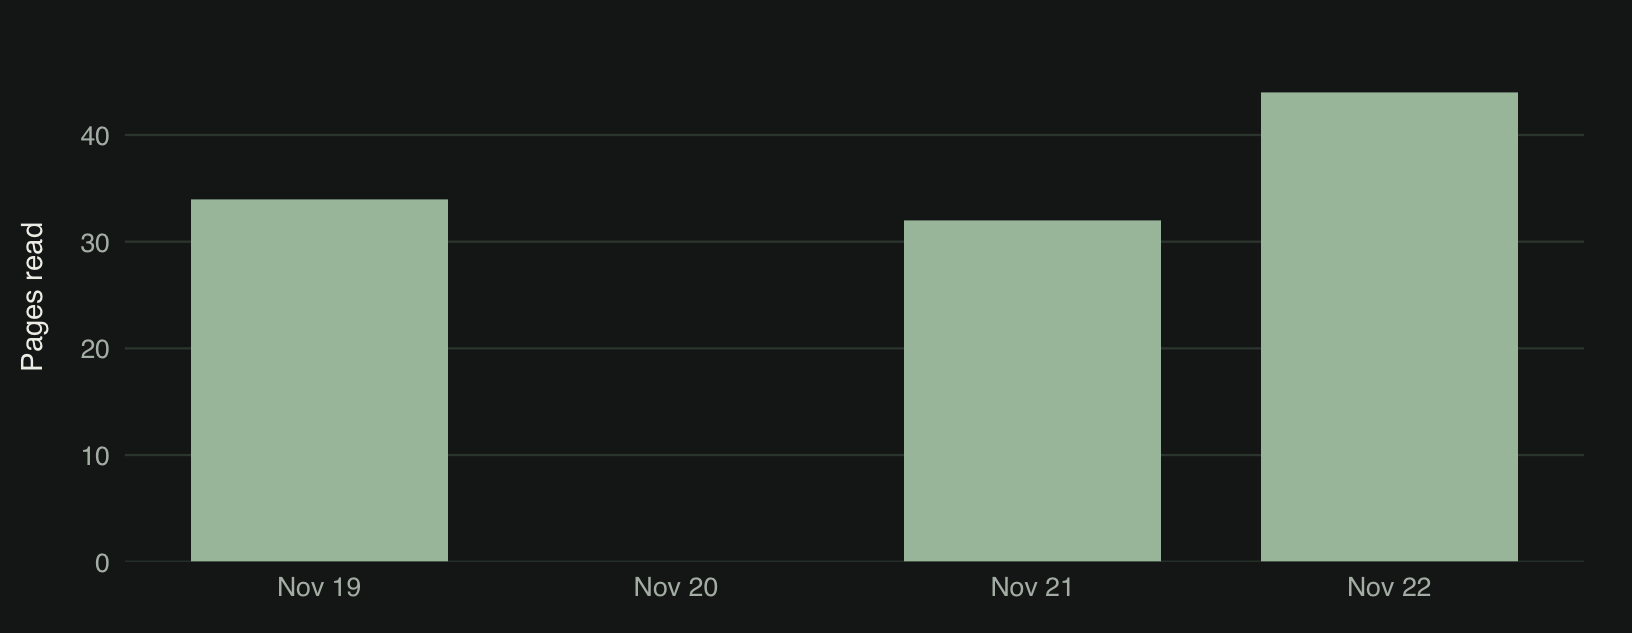
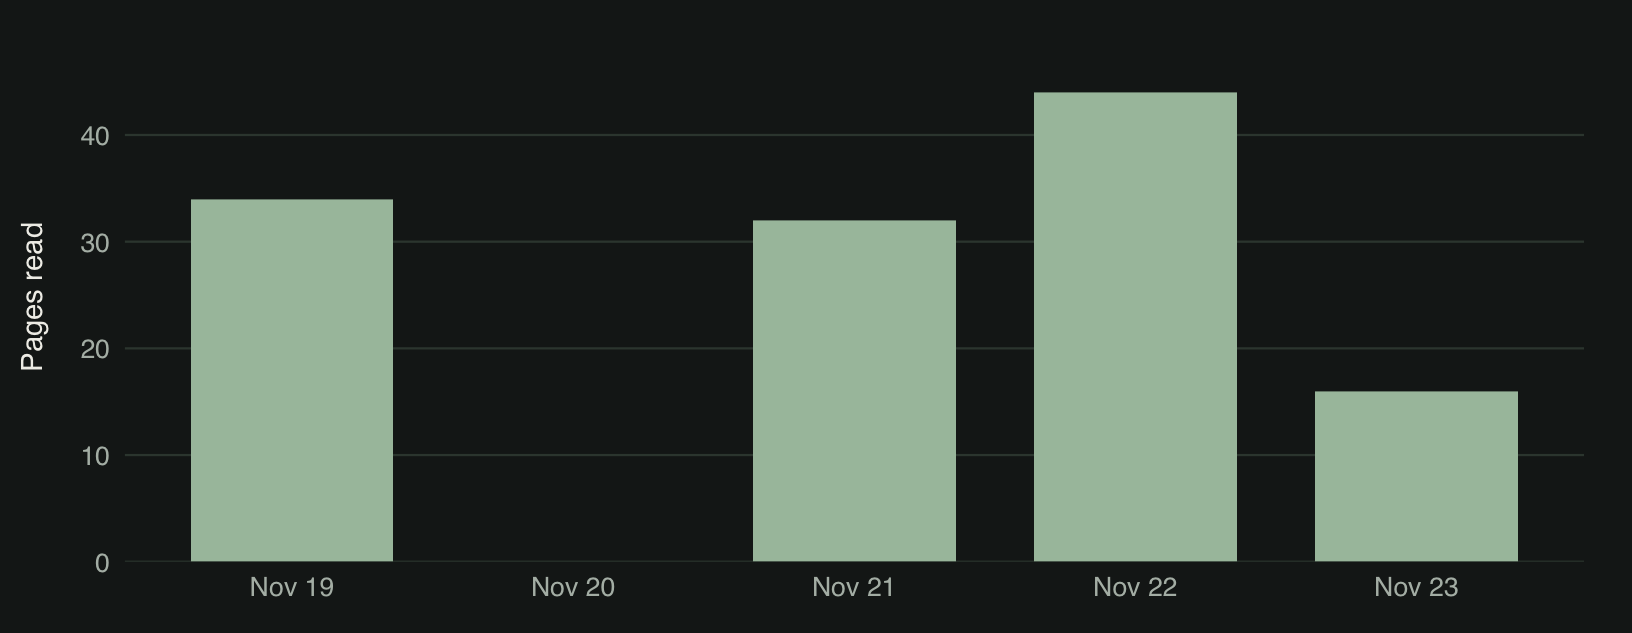
Built site for gh-pages

diff --git a/library.html b/library.html
@@ -339,8 +339,8 @@ ul.task-list li input[type="checkbox"] {
 <div class="library-page">
 <div class="cell">
 <div class="cell-output-display">
-<div class="datatables html-widget html-fill-item" id="htmlwidget-fa1062c17ee3f617b449" style="width:100%;height:auto;"></div>
-<script type="application/json" data-for="htmlwidget-fa1062c17ee3f617b449">{"x":{"filter":"none","vertical":false,"data":[["<a href=\"books/lavalee-des-avales.html\" class=\"library-book-link\">\n  <img src=\"https://covers.openlibrary.org/b/id/967591-M.jpg\" alt=\"Cover of L&#39;avalée des avalés\" class=\"library-cover\" loading=\"lazy\"/>\n  <span class=\"library-book-title\">L'avalée des avalés<\/span>\n<\/a>","<a href=\"books/volkswagen-blues.html\" class=\"library-book-link\">\n  <img src=\"https://covers.openlibrary.org/b/id/10820587-M.jpg\" alt=\"Cover of Volkswagen Blues\" class=\"library-cover\" loading=\"lazy\"/>\n  <span class=\"library-book-title\">Volkswagen Blues<\/span>\n<\/a>","<a href=\"books/B004.html\" class=\"library-book-link\">\n  <img src=\"https://covers.openlibrary.org/b/id/452472-M.jpg\" alt=\"Cover of The Argumentative Indian: Writings on Indian History, Culture and Identity\" class=\"library-cover\" loading=\"lazy\"/>\n  <span class=\"library-book-title\">The Argumentative Indian: Writings on Indian History, Culture and Identity<\/span>\n<\/a>","<a href=\"books/B003.html\" class=\"library-book-link\">\n  <img src=\"https://covers.openlibrary.org/b/id/6601656-M.jpg\" alt=\"Cover of Silence\" class=\"library-cover\" loading=\"lazy\"/>\n  <span class=\"library-book-title\">Silence<\/span>\n<\/a>"],["Réjean Ducharme","Jacques Poulin","Amartya Sen","Shūsaku Endō"],[343,221,432,256],["<span class=\"library-status library-status--reading\">Reading<\/span>","<span class=\"library-status library-status--finished\">Finished<\/span>","<span class=\"library-status library-status--finished\">Finished<\/span>","<span class=\"library-status library-status--finished\">Finished<\/span>"],["2026-11-19","2026-10-30","2026-09-26","2026-09-12"],["—","2026-11-18","2026-10-28","2026-09-25"]],"container":"<table class=\"hover\">\n  <thead>\n    <tr>\n      <th>Book<\/th>\n      <th>Author<\/th>\n      <th>Pages<\/th>\n      <th>Status<\/th>\n      <th>Date Started<\/th>\n      <th>Date Finished<\/th>\n    <\/tr>\n  <\/thead>\n<\/table>","options":{"pageLength":10,"lengthChange":true,"lengthMenu":[[10,15,25,50,100,-1],["10","15","25","50","100","All"]],"order":[],"autoWidth":false,"scrollX":true,"language":{"search":"Search books:","emptyTable":"No books recorded yet."},"columnDefs":[{"className":"dt-right","targets":2},{"name":"Book","targets":0},{"name":"Author","targets":1},{"name":"Pages","targets":2},{"name":"Status","targets":3},{"name":"Date Started","targets":4},{"name":"Date Finished","targets":5}],"orderClasses":false}},"evals":[],"jsHooks":[]}</script>
+<div class="datatables html-widget html-fill-item" id="htmlwidget-13a73a09ba4db7b51588" style="width:100%;height:auto;"></div>
+<script type="application/json" data-for="htmlwidget-13a73a09ba4db7b51588">{"x":{"filter":"none","vertical":false,"data":[["<a href=\"books/lavalee-des-avales.html\" class=\"library-book-link\">\n  <img src=\"https://covers.openlibrary.org/b/id/967591-M.jpg\" alt=\"Cover of L&#39;avalée des avalés\" class=\"library-cover\" loading=\"lazy\"/>\n  <span class=\"library-book-title\">L'avalée des avalés<\/span>\n<\/a>","<a href=\"books/volkswagen-blues.html\" class=\"library-book-link\">\n  <img src=\"https://covers.openlibrary.org/b/id/10820587-M.jpg\" alt=\"Cover of Volkswagen Blues\" class=\"library-cover\" loading=\"lazy\"/>\n  <span class=\"library-book-title\">Volkswagen Blues<\/span>\n<\/a>","<a href=\"books/B004.html\" class=\"library-book-link\">\n  <img src=\"https://covers.openlibrary.org/b/id/452472-M.jpg\" alt=\"Cover of The Argumentative Indian: Writings on Indian History, Culture and Identity\" class=\"library-cover\" loading=\"lazy\"/>\n  <span class=\"library-book-title\">The Argumentative Indian: Writings on Indian History, Culture and Identity<\/span>\n<\/a>","<a href=\"books/B003.html\" class=\"library-book-link\">\n  <img src=\"https://covers.openlibrary.org/b/id/6601656-M.jpg\" alt=\"Cover of Silence\" class=\"library-cover\" loading=\"lazy\"/>\n  <span class=\"library-book-title\">Silence<\/span>\n<\/a>"],["Réjean Ducharme","Jacques Poulin","Amartya Sen","Shūsaku Endō"],[343,221,432,256],["<span class=\"library-status library-status--reading\">Reading<\/span>","<span class=\"library-status library-status--finished\">Finished<\/span>","<span class=\"library-status library-status--finished\">Finished<\/span>","<span class=\"library-status library-status--finished\">Finished<\/span>"],["2026-11-19","2026-10-30","2026-09-26","2026-09-12"],["—","2026-11-18","2026-10-28","2026-09-25"]],"container":"<table class=\"hover\">\n  <thead>\n    <tr>\n      <th>Book<\/th>\n      <th>Author<\/th>\n      <th>Pages<\/th>\n      <th>Status<\/th>\n      <th>Date Started<\/th>\n      <th>Date Finished<\/th>\n    <\/tr>\n  <\/thead>\n<\/table>","options":{"pageLength":10,"lengthChange":true,"lengthMenu":[[10,15,25,50,100,-1],["10","15","25","50","100","All"]],"order":[],"autoWidth":false,"scrollX":true,"language":{"search":"Search books:","emptyTable":"No books recorded yet."},"columnDefs":[{"className":"dt-right","targets":2},{"name":"Book","targets":0},{"name":"Author","targets":1},{"name":"Pages","targets":2},{"name":"Status","targets":3},{"name":"Date Started","targets":4},{"name":"Date Finished","targets":5}],"orderClasses":false}},"evals":[],"jsHooks":[]}</script>
 </div>
 </div>
 </div>
@@ -351,8 +351,8 @@ ul.task-list li input[type="checkbox"] {
 <div class="library-page">
 <div class="cell">
 <div class="cell-output-display">
-<div class="datatables html-widget html-fill-item" id="htmlwidget-c52c94c009923d69f34b" style="width:100%;height:auto;"></div>
-<script type="application/json" data-for="htmlwidget-c52c94c009923d69f34b">{"x":{"filter":"none","vertical":false,"data":[["<div class=\"library-book-link\">\n  <img src=\"images/9780374608422.jpg.avif\" alt=\"Cover of Annihilation\" class=\"library-cover\" loading=\"lazy\"/>\n  <span class=\"library-book-title\">Annihilation<\/span>\n<\/div>","<div class=\"library-book-link\">\n  <img src=\"https://covers.openlibrary.org/b/id/5722548-M.jpg\" alt=\"Cover of Brooklyn\" class=\"library-cover\" loading=\"lazy\"/>\n  <span class=\"library-book-title\">Brooklyn<\/span>\n<\/div>","<div class=\"library-book-link\">\n  <img src=\"https://covers.openlibrary.org/b/id/12661723-M.jpg\" alt=\"Cover of Cry, the Beloved Country\" class=\"library-cover\" loading=\"lazy\"/>\n  <span class=\"library-book-title\">Cry, the Beloved Country<\/span>\n<\/div>","<div class=\"library-book-link\">\n  <img src=\"https://covers.openlibrary.org/b/id/10096955-M.jpg\" alt=\"Cover of The Cold Millions\" class=\"library-cover\" loading=\"lazy\"/>\n  <span class=\"library-book-title\">The Cold Millions<\/span>\n<\/div>","<div class=\"library-book-link\">\n  <img src=\"https://covers.openlibrary.org/b/id/156399-M.jpg\" alt=\"Cover of The Gay Place\" class=\"library-cover\" loading=\"lazy\"/>\n  <span class=\"library-book-title\">The Gay Place<\/span>\n<\/div>","<div class=\"library-book-link\">\n  <img src=\"https://covers.openlibrary.org/b/id/7401807-M.jpg\" alt=\"Cover of The Sailor Who Fell from Grace with the Sea\" class=\"library-cover\" loading=\"lazy\"/>\n  <span class=\"library-book-title\">The Sailor Who Fell from Grace with the Sea<\/span>\n<\/div>","<div class=\"library-book-link\">\n  <img src=\"https://covers.openlibrary.org/b/id/914747-M.jpg\" alt=\"Cover of What We Talk About When We Talk About Love\" class=\"library-cover\" loading=\"lazy\"/>\n  <span class=\"library-book-title\">What We Talk About When We Talk About Love<\/span>\n<\/div>"],["Michel Houellebecq","Colm Tóibín","Alan Paton","Jess Walter","Billy Lee Brammer","Yukio Mishima","Raymond Carver"]],"container":"<table class=\"hover\">\n  <thead>\n    <tr>\n      <th>Book<\/th>\n      <th>Author<\/th>\n    <\/tr>\n  <\/thead>\n<\/table>","options":{"pageLength":10,"lengthChange":true,"lengthMenu":[[10,15,25,50,100,-1],["10","15","25","50","100","All"]],"order":[],"autoWidth":false,"scrollX":true,"language":{"search":"Search wishlist:","emptyTable":"No books on the wishlist yet."},"columnDefs":[{"name":"Book","targets":0},{"name":"Author","targets":1}],"orderClasses":false}},"evals":[],"jsHooks":[]}</script>
+<div class="datatables html-widget html-fill-item" id="htmlwidget-975d10de20ecba5fa627" style="width:100%;height:auto;"></div>
+<script type="application/json" data-for="htmlwidget-975d10de20ecba5fa627">{"x":{"filter":"none","vertical":false,"data":[["<div class=\"library-book-link\">\n  <img src=\"images/9780374608422.jpg.avif\" alt=\"Cover of Annihilation\" class=\"library-cover\" loading=\"lazy\"/>\n  <span class=\"library-book-title\">Annihilation<\/span>\n<\/div>","<div class=\"library-book-link\">\n  <img src=\"https://covers.openlibrary.org/b/id/5722548-M.jpg\" alt=\"Cover of Brooklyn\" class=\"library-cover\" loading=\"lazy\"/>\n  <span class=\"library-book-title\">Brooklyn<\/span>\n<\/div>","<div class=\"library-book-link\">\n  <img src=\"https://covers.openlibrary.org/b/id/12661723-M.jpg\" alt=\"Cover of Cry, the Beloved Country\" class=\"library-cover\" loading=\"lazy\"/>\n  <span class=\"library-book-title\">Cry, the Beloved Country<\/span>\n<\/div>","<div class=\"library-book-link\">\n  <img src=\"https://covers.openlibrary.org/b/id/10096955-M.jpg\" alt=\"Cover of The Cold Millions\" class=\"library-cover\" loading=\"lazy\"/>\n  <span class=\"library-book-title\">The Cold Millions<\/span>\n<\/div>","<div class=\"library-book-link\">\n  <img src=\"https://covers.openlibrary.org/b/id/156399-M.jpg\" alt=\"Cover of The Gay Place\" class=\"library-cover\" loading=\"lazy\"/>\n  <span class=\"library-book-title\">The Gay Place<\/span>\n<\/div>","<div class=\"library-book-link\">\n  <img src=\"https://covers.openlibrary.org/b/id/7401807-M.jpg\" alt=\"Cover of The Sailor Who Fell from Grace with the Sea\" class=\"library-cover\" loading=\"lazy\"/>\n  <span class=\"library-book-title\">The Sailor Who Fell from Grace with the Sea<\/span>\n<\/div>","<div class=\"library-book-link\">\n  <img src=\"https://covers.openlibrary.org/b/id/914747-M.jpg\" alt=\"Cover of What We Talk About When We Talk About Love\" class=\"library-cover\" loading=\"lazy\"/>\n  <span class=\"library-book-title\">What We Talk About When We Talk About Love<\/span>\n<\/div>"],["Michel Houellebecq","Colm Tóibín","Alan Paton","Jess Walter","Billy Lee Brammer","Yukio Mishima","Raymond Carver"]],"container":"<table class=\"hover\">\n  <thead>\n    <tr>\n      <th>Book<\/th>\n      <th>Author<\/th>\n    <\/tr>\n  <\/thead>\n<\/table>","options":{"pageLength":10,"lengthChange":true,"lengthMenu":[[10,15,25,50,100,-1],["10","15","25","50","100","All"]],"order":[],"autoWidth":false,"scrollX":true,"language":{"search":"Search wishlist:","emptyTable":"No books on the wishlist yet."},"columnDefs":[{"name":"Book","targets":0},{"name":"Author","targets":1}],"orderClasses":false}},"evals":[],"jsHooks":[]}</script>
 </div>
 </div>
 </div>

diff --git a/pages.html b/pages.html
@@ -338,8 +338,8 @@ ul.task-list li input[type="checkbox"] {
 <div class="reading-log-page">
 <div class="cell">
 <div class="cell-output-display">
-<div class="datatables html-widget html-fill-item" id="htmlwidget-f14a2a12c35724aca9db" style="width:100%;height:auto;"></div>
-<script type="application/json" data-for="htmlwidget-f14a2a12c35724aca9db">{"x":{"filter":"none","vertical":false,"data":[["2026-11-22","2026-11-21","2026-11-20","2026-11-19"],["<a href=\"books/lavalee-des-avales.html\" class=\"log-book-link\">L'avalée des avalés<\/a>","<a href=\"books/lavalee-des-avales.html\" class=\"log-book-link\">L'avalée des avalés<\/a>","<span class=\"log-unrecorded\">No entry recorded<\/span>","<a href=\"books/lavalee-des-avales.html\" class=\"log-book-link\">L'avalée des avalés<\/a>"],[44,32,null,34],[110,66,null,34]],"container":"<table class=\"hover\">\n  <thead>\n    <tr>\n      <th>Date<\/th>\n      <th>Book<\/th>\n      <th>Pages Read<\/th>\n      <th>Page Reached<\/th>\n    <\/tr>\n  <\/thead>\n<\/table>","options":{"pageLength":15,"lengthChange":true,"lengthMenu":[[10,15,25,50,100,-1],["10","15","25","50","100","All"]],"searching":true,"ordering":true,"order":[[0,"desc"]],"autoWidth":false,"scrollX":true,"language":{"search":"Search log:","emptyTable":"No reading entries yet."},"columnDefs":[{"className":"dt-right","targets":[2,3]},{"name":"Date","targets":0},{"name":"Book","targets":1},{"name":"Pages Read","targets":2},{"name":"Page Reached","targets":3}],"orderClasses":false}},"evals":[],"jsHooks":[]}</script>
+<div class="datatables html-widget html-fill-item" id="htmlwidget-a957526cca5b6c84e38e" style="width:100%;height:auto;"></div>
+<script type="application/json" data-for="htmlwidget-a957526cca5b6c84e38e">{"x":{"filter":"none","vertical":false,"data":[["2026-11-23","2026-11-22","2026-11-21","2026-11-20","2026-11-19"],["<a href=\"books/lavalee-des-avales.html\" class=\"log-book-link\">L'avalée des avalés<\/a>","<a href=\"books/lavalee-des-avales.html\" class=\"log-book-link\">L'avalée des avalés<\/a>","<a href=\"books/lavalee-des-avales.html\" class=\"log-book-link\">L'avalée des avalés<\/a>","<span class=\"log-unrecorded\">No entry recorded<\/span>","<a href=\"books/lavalee-des-avales.html\" class=\"log-book-link\">L'avalée des avalés<\/a>"],[16,44,32,null,34],[126,110,66,null,34]],"container":"<table class=\"hover\">\n  <thead>\n    <tr>\n      <th>Date<\/th>\n      <th>Book<\/th>\n      <th>Pages Read<\/th>\n      <th>Page Reached<\/th>\n    <\/tr>\n  <\/thead>\n<\/table>","options":{"pageLength":15,"lengthChange":true,"lengthMenu":[[10,15,25,50,100,-1],["10","15","25","50","100","All"]],"searching":true,"ordering":true,"order":[[0,"desc"]],"autoWidth":false,"scrollX":true,"language":{"search":"Search log:","emptyTable":"No reading entries yet."},"columnDefs":[{"className":"dt-right","targets":[2,3]},{"name":"Date","targets":0},{"name":"Book","targets":1},{"name":"Pages Read","targets":2},{"name":"Page Reached","targets":3}],"orderClasses":false}},"evals":[],"jsHooks":[]}</script>
 </div>
 </div>
 </div>

diff --git a/statistics.html b/statistics.html
@@ -338,7 +338,7 @@ ul.task-list li input[type="checkbox"] {
 <p>Pages in completed books</p>
 </section>
 <section id="section-3" class="level3 stats-summary-card">
-<h3 class="anchored" data-anchor-id="section-3">110</h3>
+<h3 class="anchored" data-anchor-id="section-3">126</h3>
 <p>Pages logged by date</p>
 </section>
 </div>
@@ -347,15 +347,15 @@ ul.task-list li input[type="checkbox"] {
 <h2 class="anchored" data-anchor-id="reading-habits">Reading Habits</h2>
 <div class="stats-average-grid">
 <section id="section-4" class="level3 stats-average-card">
-<h3 class="anchored" data-anchor-id="section-4">3</h3>
+<h3 class="anchored" data-anchor-id="section-4">4</h3>
 <p>Days with logged reading</p>
 </section>
 <section id="section-5" class="level3 stats-average-card">
-<h3 class="anchored" data-anchor-id="section-5">27.5</h3>
+<h3 class="anchored" data-anchor-id="section-5">25.2</h3>
 <p>Avg. pages per calendar day</p>
 </section>
 <section id="section-6" class="level3 stats-average-card">
-<h3 class="anchored" data-anchor-id="section-6">36.7</h3>
+<h3 class="anchored" data-anchor-id="section-6">31.5</h3>
 <p>Avg. pages per reading day</p>
 </section>
 </div>

diff --git a/index.html b/index.html
@@ -335,7 +335,7 @@ ul.task-list li input[type="checkbox"] {
 <p>Books completed</p>
 </section>
 <section id="section-2" class="level3 reading-stat">
-<h3 class="anchored" data-anchor-id="section-2">110</h3>
+<h3 class="anchored" data-anchor-id="section-2">126</h3>
 <p>Pages logged</p>
 </section>
 </div>
@@ -358,10 +358,10 @@ ul.task-list li input[type="checkbox"] {
 </h3>
 <p class="book-card-author">Réjean Ducharme</p>
 <div class="book-progress">
-<div class="book-progress-track" role="progressbar" aria-label="Reading progress for L'avalée des avalés" aria-valuenow="32.1" aria-valuemin="0" aria-valuemax="100">
-<div class="book-progress-fill" style="width: 32.1%;"></div>
+<div class="book-progress-track" role="progressbar" aria-label="Reading progress for L'avalée des avalés" aria-valuenow="36.7" aria-valuemin="0" aria-valuemax="100">
+<div class="book-progress-fill" style="width: 36.7%;"></div>
 </div>
-<p class="book-progress-label">Page 110 of 343 · 32.1%</p>
+<p class="book-progress-label">Page 126 of 343 · 36.7%</p>
 </div>
 </div>
 </article>

diff --git a/books/lavalee-des-avales.html b/books/lavalee-des-avales.html
@@ -347,11 +347,11 @@ ul.task-list li input[type="checkbox"] {
 </div>
 <div class="book-detail-field">
 <dt>Last recorded page</dt>
-<dd>110</dd>
+<dd>126</dd>
 </div>
 <div class="book-detail-field">
 <dt>Reading progress</dt>
-<dd>32.1%</dd>
+<dd>36.7%</dd>
 </div>
 </dl>
 </div>
@@ -390,6 +390,11 @@ ul.task-list li input[type="checkbox"] {
 <td style="text-align: left;">2026-11-22</td>
 <td style="text-align: right;">44</td>
 <td style="text-align: right;">110</td>
+</tr>
+<tr class="even">
+<td style="text-align: left;">2026-11-23</td>
+<td style="text-align: right;">16</td>
+<td style="text-align: right;">126</td>
 </tr>
 </tbody>
 </table>
